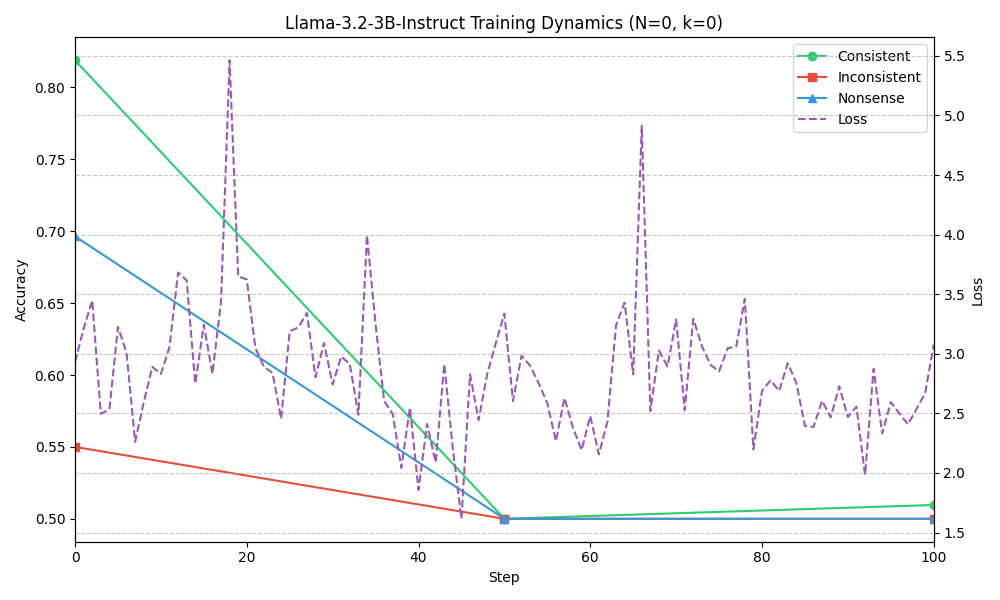
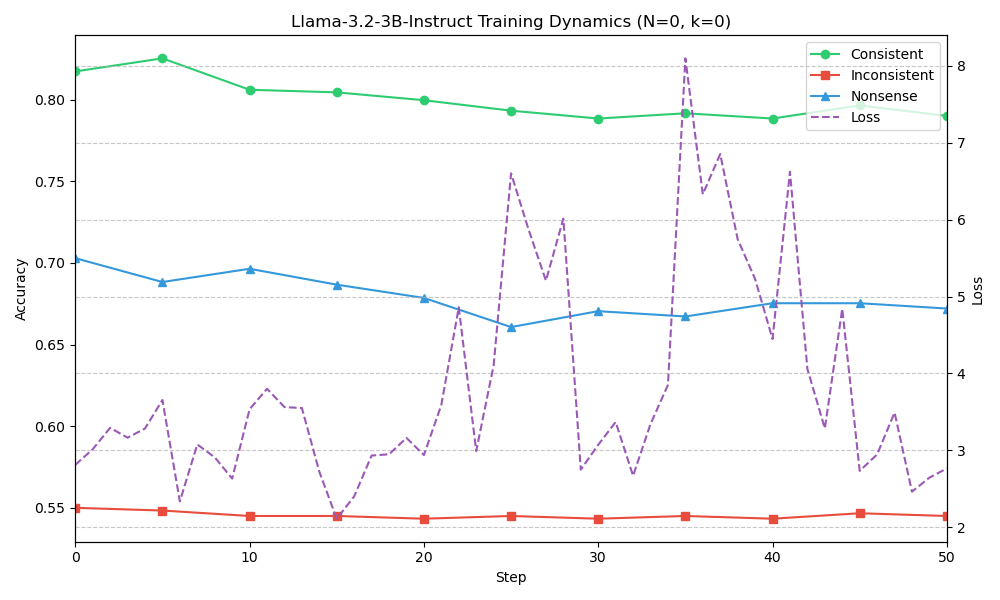
fixed accuracy measure problem

diff --git a/finetune.py b/finetune.py
@@ -17,7 +17,12 @@ from transformers import (
 )
 import matplotlib.pyplot as plt
 
-from evaluate import eval_prompt
+from utils import (
+    eval_prompt,
+    evaluate,
+    LogitAccuracy,
+    get_model_and_tokenizer
+)
 
 
 def parse_args():
@@ -114,11 +119,6 @@ def parse_args():
         help="token to use for responding ``invalid''",
     )
     parser.add_argument(
-        "--finetune",
-        action="store_true",
-        help="whether to finetune the model",
-    )
-    parser.add_argument(
         "--output_dir",
         default="results",
         help="path to the output directory",
@@ -165,14 +165,6 @@ class TopKAccuracy:
 
     def get_acc(self):
         return self.correct / self.total
-
-
-def get_model_and_tokenizer(model_str, device):
-    model = AutoModelForCausalLM.from_pretrained(model_str, torch_dtype=torch.bfloat16, attn_implementation="eager").to(device)
-   #model = AutoModelForCausalLM.from_pretrained(model_str, torch_dtype=torch.bfloat16).to(device)
-    tokenizer = AutoTokenizer.from_pretrained(model_str)
-    tokenizer.pad_token = tokenizer.eos_token
-    return model, tokenizer
 
 
 def content_effect_eval(
@@ -234,8 +226,6 @@ def training_loop_temporary_forgetting(
         scheduler,
         num_forget_steps,
         forget_interval,
-        valid_idx,
-        invalid_idx,
         mask_prob,
         initializer_range=None,
         device=None,
@@ -265,22 +255,6 @@ def training_loop_temporary_forgetting(
         if i > args.total_steps:
             break
 
-        if i % args.eval_interval == 0:
-            model.eval()
-            baseline_acc = content_effect_eval(
-                model, tokenizer, eval_data, "consistent", valid_idx, invalid_idx, args, device
-            )
-            inconsistent_acc = content_effect_eval(
-                model, tokenizer, eval_data, "inconsistent", valid_idx, invalid_idx, args, device
-            )
-            nonsense_acc = content_effect_eval(
-                model, tokenizer, eval_data, "nonsense", valid_idx, invalid_idx, args, device
-            )
-            metrics["baseline_acc"][i] = baseline_acc
-            metrics["inconsistent_acc"][i] = inconsistent_acc
-            metrics["nonsense_acc"][i] = nonsense_acc
-            print(f"Step {i}, Baseline Acc: {baseline_acc:.3f}, Inconsistent Acc: {inconsistent_acc:.3f}, Nonsense Acc: {nonsense_acc:.3f}")
-            exit()
         model.train()
         batch = {k: v.to(device) for k, v in batch.items()}
 
@@ -330,6 +304,14 @@ def training_loop_temporary_forgetting(
         optimizer.step()
         scheduler.step()
         optimizer.zero_grad()
+
+        if i % args.eval_interval == 0:
+            model.eval()
+            results = evaluate(model, tokenizer, eval_data, args)
+            metrics["baseline_acc"][i] = results["consistent_logit_acc"]
+            metrics["inconsistent_acc"][i] = results["inconsistent_logit_acc"]
+            metrics["nonsense_acc"][i] = results["nonsense_logit_acc"]
+            print(f"Step {i}, Baseline Acc: {metrics['baseline_acc'][i]:.3f}, Inconsistent Acc: {metrics['inconsistent_acc'][i]:.3f}, Nonsense Acc: {metrics['nonsense_acc'][i]:.3f}")
 
     return metrics
 
@@ -412,31 +394,17 @@ def plot_metrics(metrics, args):
 
 def main():
     args = parse_args()
-
     model, tokenizer = get_model_and_tokenizer(args.model, args.device)
-    valid_idx = tokenizer(args.valid_token, add_special_tokens=False)["input_ids"][0]
-    invalid_idx = tokenizer(" Yes", add_special_tokens=False)["input_ids"][0]
-    invalid_idx = tokenizer(" No", add_special_tokens=False)["input_ids"][0]
-    #print(f"valid_idx: {valid_idx}, invalid_idx: {invalid_idx}")
-    # check 7566 in the tokenizer vocab
-    #print(tokenizer.convert_ids_to_tokens(2360))
-    #exit()
-    train_loader = setup_dataset(tokenizer, args)
-    print("Loaded train dataset with {} examples".format(len(train_loader.dataset)))
 
     eval_data = pd.read_csv(args.eval_data)
     print("Loaded evaluation data with {} examples".format(len(eval_data)))
 
+    train_loader = setup_dataset(tokenizer, args)
+    print("Loaded train dataset with {} examples".format(len(train_loader.dataset)))
+
     total_steps = len(train_loader)
     optimizer = optim.AdamW(model.parameters(), lr=args.learning_rate)
     scheduler = get_linear_schedule_with_warmup(optimizer, num_warmup_steps=10, num_training_steps=total_steps)
-
-    model.eval()
-    baseline_acc = content_effect_eval(
-        model, tokenizer, eval_data, "consistent", valid_idx, invalid_idx, args, args.device
-    )
-    print(f"Baseline Acc: {baseline_acc:.3f}")
-    exit()
 
     metrics = training_loop_temporary_forgetting(
         model,
@@ -449,8 +417,6 @@ def main():
         forget_interval=args.forget_interval,
         device=args.device,
         args=args,
-        valid_idx=valid_idx,
-        invalid_idx=invalid_idx,
         mask_prob=args.mask_prob
     )
     

diff --git a/utils.py b/utils.py
@@ -1,0 +1,85 @@
+import argparse
+import sys
+
+import pandas as pd
+from transformers import AutoTokenizer, AutoModelForCausalLM
+import numpy as np
+import torch
+from tqdm import tqdm
+
+class LogitAccuracy:
+    def __init__(self, data_type):
+        self.data_type = data_type
+        self.correct = 0
+        self.total = 0
+
+    def update(self, correct_logit, incorrect_logit):
+        self.total += 1
+        if correct_logit > incorrect_logit:
+            self.correct += 1
+
+    def get_acc(self):
+        return self.correct / self.total
+
+class ExactMatchAccuracy:
+    def __init__(self, data_type):
+        self.data_type = data_type
+        self.correct = 0
+        self.total = 0
+        
+    def update(self, generation, gold):
+        self.total += 1
+        if generation == gold:
+            self.correct += 1
+
+    def get_acc(self):
+        return self.correct / self.total
+
+def eval_prompt(question):
+    return f"""
+    Answer this question with Yes or No. Question: {question} Answer:
+    """
+
+def get_model_and_tokenizer(model_str, device):
+    model = AutoModelForCausalLM.from_pretrained(model_str, torch_dtype=torch.bfloat16, attn_implementation="eager").to(device)
+    tokenizer = AutoTokenizer.from_pretrained(model_str)
+    tokenizer.pad_token = tokenizer.eos_token
+    return model, tokenizer
+
+
+def evaluate(model, tokenizer, data, args):
+    consistent_logit_acc = LogitAccuracy("consistent")
+    inconsistent_logit_acc = LogitAccuracy("inconsistent")
+    nonsense_logit_acc = LogitAccuracy("nonsense")
+    
+    valid_tok = tokenizer(args.valid_token)["input_ids"][1]
+    invalid_tok = tokenizer(args.invalid_token)["input_ids"][1]
+
+    for i, row in tqdm(data.iterrows(), total=len(data)):
+        question = row["prompt"]
+        gold = row["gold"]
+        dataset_type = row["dataset_type"]
+
+        prompt = eval_prompt(question)
+        inputs = tokenizer(prompt, return_tensors="pt").to(args.device)
+        outputs = model(inputs["input_ids"]).logits
+
+        if gold == "yes":
+            correct_tok = valid_tok
+            incorrect_tok = invalid_tok
+        else:
+            correct_tok = invalid_tok
+            incorrect_tok = valid_tok
+
+        if dataset_type == "consistent":
+            consistent_logit_acc.update(outputs[0, -1, correct_tok], outputs[0, -1, incorrect_tok])
+        elif dataset_type == "inconsistent":
+            inconsistent_logit_acc.update(outputs[0, -1, correct_tok], outputs[0, -1, incorrect_tok])
+        else:
+            nonsense_logit_acc.update(outputs[0, -1, correct_tok], outputs[0, -1, incorrect_tok])
+
+    return {
+        "consistent_logit_acc": consistent_logit_acc.get_acc(),
+        "inconsistent_logit_acc": inconsistent_logit_acc.get_acc(),
+        "nonsense_logit_acc": nonsense_logit_acc.get_acc(),
+    }
